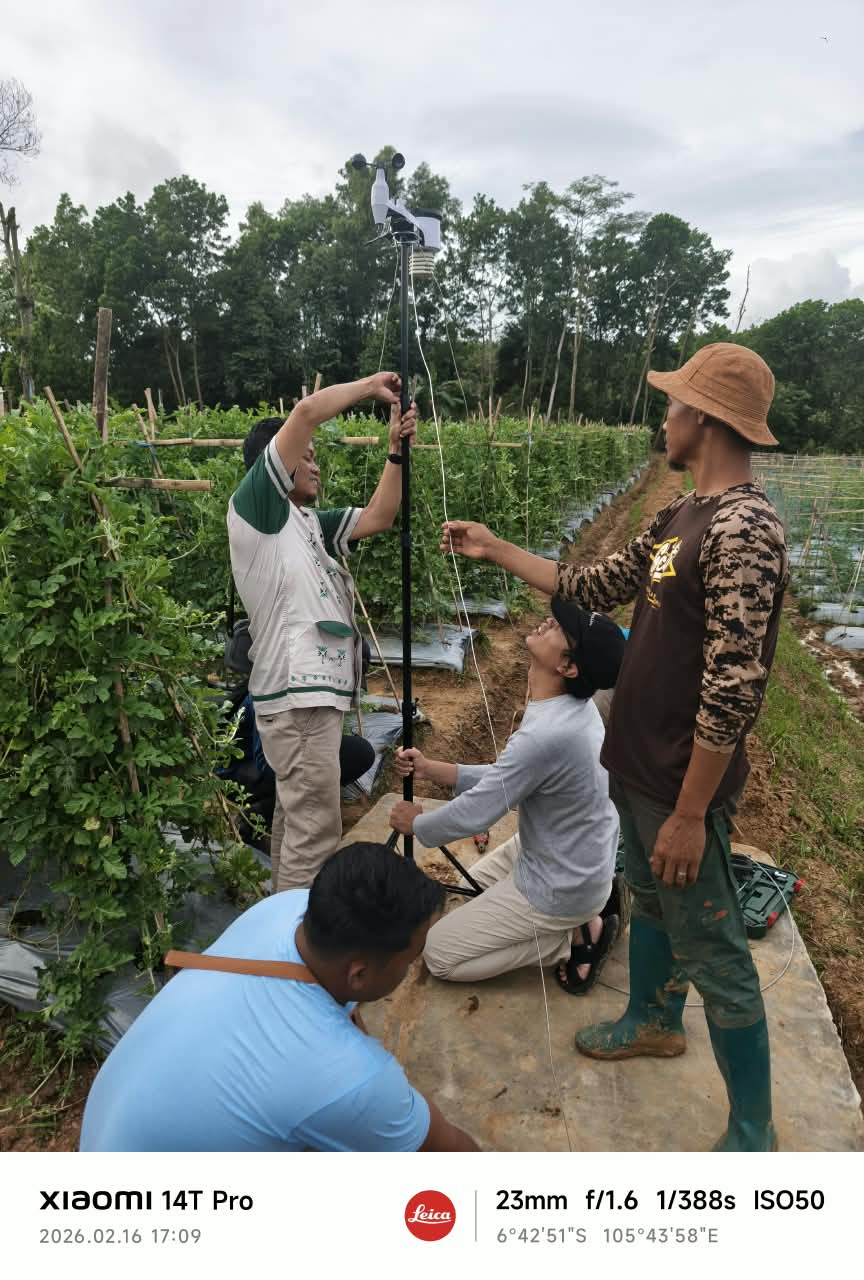
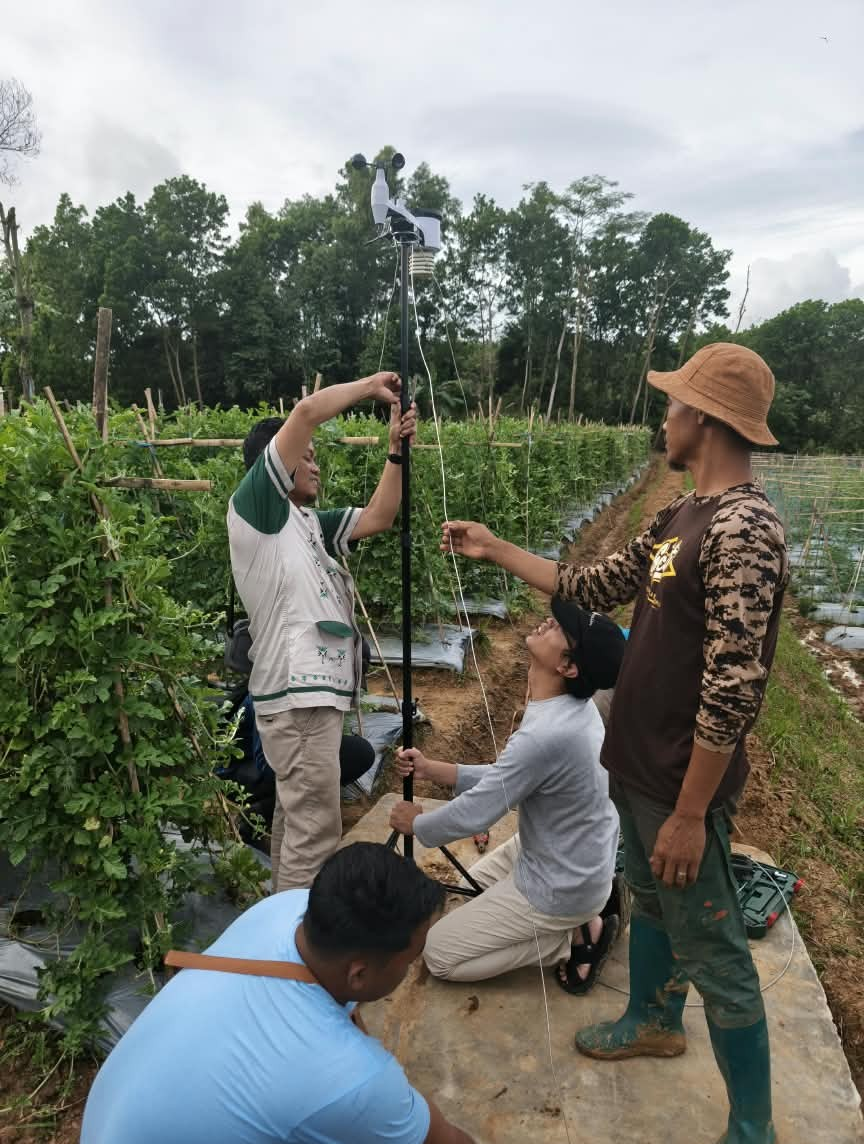
reva

diff --git a/config/gallery.php b/config/gallery.php
@@ -275,13 +275,6 @@ $gallery_items = [
     ],
     [
         'type'    => 'image',
-        'image'   => 'earth-school.jpg',
-        'tag'     => 'Education',
-        'coord'   => 'Earth School',
-        'caption' => 'Earth School Program Activities'
-    ],
-    [
-        'type'    => 'image',
         'image'   => 'biweekly-esb-doc.jpg',
         'tag'     => 'Seminar',
         'coord'   => 'BRIN',
@@ -300,13 +293,6 @@ $gallery_items = [
         'tag'     => 'Event',
         'coord'   => 'Gathering',
         'caption' => 'Gathering and Building Connections with Stakeholders'
-    ],
-    [
-        'type'    => 'image',
-        'image'   => 'mbkm-defense.jpg',
-        'tag'     => 'Education',
-        'coord'   => 'BRIN',
-        'caption' => 'MBKM Research Internship: Final Defense Sessions'
     ],
 [
         'type'    => 'image',
@@ -355,5 +341,54 @@ $gallery_items = [
         'tag'     => 'Education',
         'coord'   => 'Lamongan, East Java',
         'caption' => 'Group Photo with Teachers during the Disaster Mitigation and Climate Care Class at SD Gampang Sejati'
+    ],
+    [
+        'type'    => 'image',
+        'image'   => 'workshop-pertamina-surabaya-1.jpeg',
+        'tag'     => 'Collaboration',
+        'coord'   => 'Surabaya, East Java',
+        'caption' => 'Workshop with PERTAMINA: Natural Disaster Emergency Preparedness Assessment and HSSE Evaluation'
+    ],
+        [
+        'type'    => 'image',
+        'image'   => 'workshop-pertamina-surabaya-2.jpeg',
+        'tag'     => 'Collaboration',
+        'coord'   => 'Surabaya, East Java',
+        'caption' => 'Workshop with PERTAMINA: Natural Disaster Emergency Preparedness Assessment and HSSE Evaluation'
+    ],
+    [
+        'type'    => 'image',
+        'image'   => 'brin-computational-lab-1.jpg',
+        'tag'     => 'Infrastructure',
+        'coord'   => 'BRIN Bandung',
+        'caption' => 'Research and Data Processing Activities at the BRIN Computational Laboratory'
+    ],
+        [
+        'type'    => 'image',
+        'image'   => 'brin-computational-lab-2.jpg',
+        'tag'     => 'Infrastructure',
+        'coord'   => 'BRIN Bandung',
+        'caption' => 'Research and Data Processing Activities at the BRIN Computational Laboratory'
+    ],
+    [
+        'type'    => 'image',
+        'image'   => 'itb-thesis-defense.jpg',
+        'tag'     => 'Education',
+        'coord'   => 'ITB Bandung',
+        'caption' => 'Master\'s Thesis Defense Session at the Physics Study Program, Institut Teknologi Bandung (ITB)'
+    ],
+    [
+        'type'    => 'image',
+        'image'   => 'earth-school-session-1.jpg',
+        'tag'     => 'Education',
+        'coord'   => 'Earth School',
+        'caption' => 'Earth School Program Photo Session'
+    ],
+    [
+        'type'    => 'image',
+        'image'   => 'earth-school-session-2.jpg',
+        'tag'     => 'Education',
+        'coord'   => 'Earth School',
+        'caption' => 'Educational Activities and Engagement during the Earth School Program'
     ],
 ];

diff --git a/people.php b/people.php
@@ -64,7 +64,7 @@ include 'includes/header.php';
     <div class="section__head">
       <h2>Collaborators</h2>
       <p>Researchers and partners from other institutions who have collaborated
-         with IALVI / ASICLIVAR.</p>
+         with ASICLIVAR</p>
     </div>
 
     <ul class="collaborator-list">
